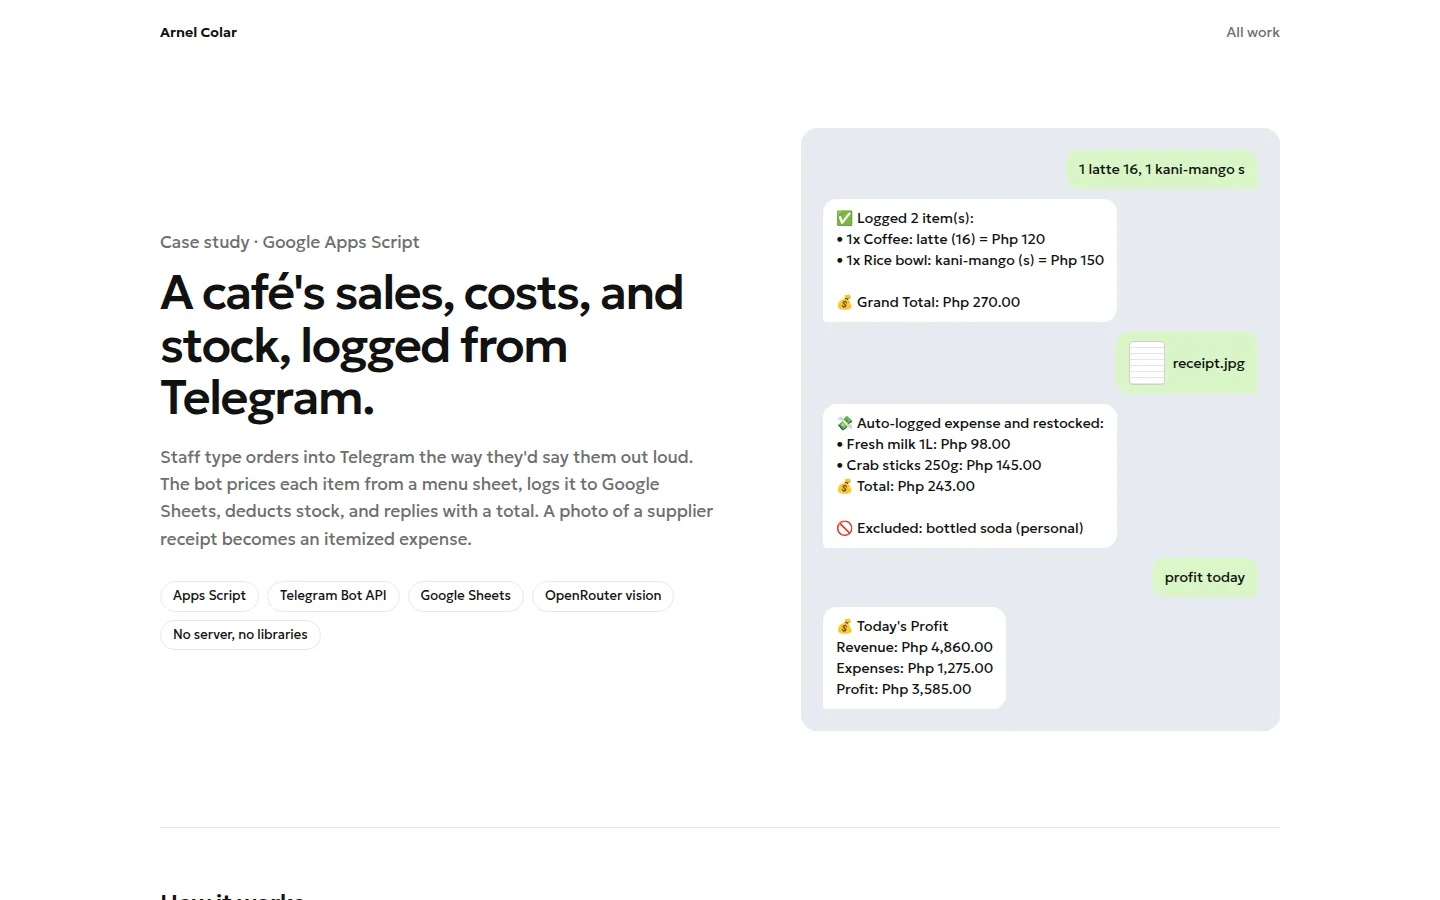
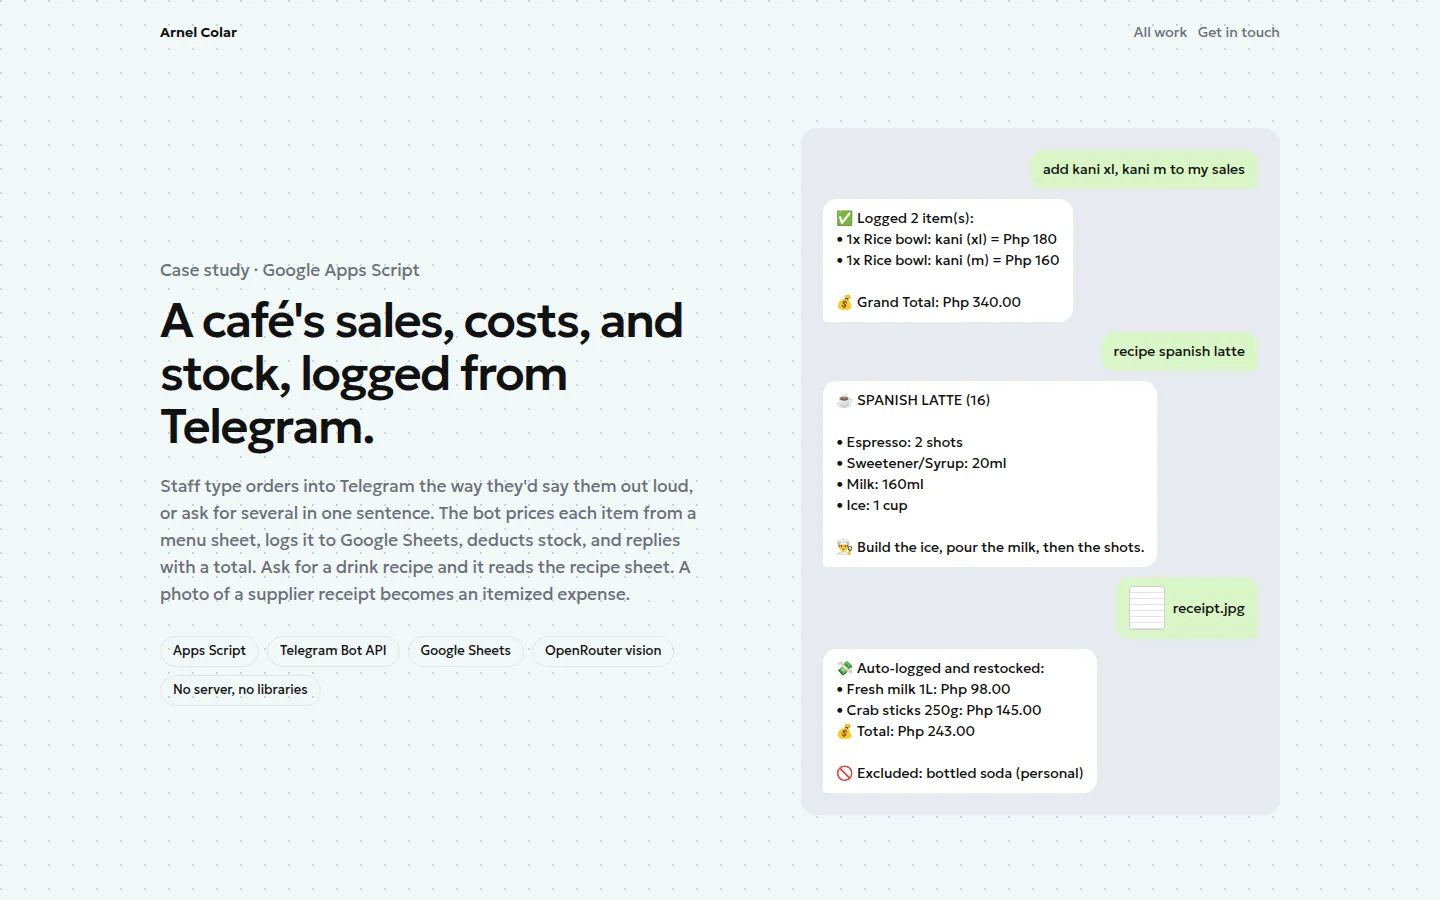
Bring the Corner Cup case study up to the current bot
The script has moved on: recipes from a sheet, menu add/list/delete, orders
written as a sentence, a webhook mode alongside polling, and one-line
corrections to a receipt the model read wrong. The case study now covers
those, shows a recipe and a sentence order in the example chat, and has a
fourth code excerpt for the menu-constrained parse.

diff --git a/work/cafe-bot/index.html b/work/cafe-bot/index.html
@@ -49,12 +49,12 @@ pre{background:var(--soft);border:1px solid var(--line);border-radius:10px;paddi
 .msg{animation:pop .45s cubic-bezier(.16,1,.3,1) both}
 .me{transform-origin:100% 100%}
 .bot{transform-origin:0 100%}
-.msg:nth-child(2){animation-delay:1s}
-.msg:nth-child(3){animation-delay:2s}
-.msg:nth-child(4){animation-delay:3s}
-.msg:nth-child(5){animation-delay:3.9s}
-.msg:nth-child(6){animation-delay:4.6s}
-.msg:first-child{animation-delay:.3s}
+.msg:nth-child(1){animation-delay:.1s}
+.msg:nth-child(2){animation-delay:.35s}
+.msg:nth-child(3){animation-delay:.8s}
+.msg:nth-child(4){animation-delay:1.05s}
+.msg:nth-child(5){animation-delay:1.5s}
+.msg:nth-child(6){animation-delay:1.75s}
 @keyframes pop{from{opacity:0;transform:translateY(8px) scale(.9)}}
 @media (max-width:760px){
   .hero,.steps,.cmds,.code{grid-template-columns:1fr}
@@ -62,8 +62,7 @@ pre{background:var(--soft);border:1px solid var(--line);border-radius:10px;paddi
   .code{gap:16px}
 }
 @media (prefers-reduced-motion:reduce){
-  .msg{animation-name:fade}
-  @keyframes fade{from{opacity:0}}
+  .msg{animation:none}
 }
 </style>
 </head>
@@ -76,7 +75,7 @@ pre{background:var(--soft);border:1px solid var(--line);border-radius:10px;paddi
     <div>
       <p class="label">Case study · Google Apps Script</p>
       <h1>A café's sales, costs, and stock, logged from Telegram.</h1>
-      <p>Staff type orders into Telegram the way they'd say them out loud. The bot prices each item from a menu sheet, logs it to Google Sheets, deducts stock, and replies with a total. A photo of a supplier receipt becomes an itemized expense.</p>
+      <p>Staff type orders into Telegram the way they'd say them out loud, or ask for several in one sentence. The bot prices each item from a menu sheet, logs it to Google Sheets, deducts stock, and replies with a total. Ask for a drink recipe and it reads the recipe sheet. A photo of a supplier receipt becomes an itemized expense.</p>
       <ul class="facts">
         <li>Apps Script</li>
         <li>Telegram Bot API</li>
@@ -86,24 +85,28 @@ pre{background:var(--soft);border:1px solid var(--line);border-radius:10px;paddi
       </ul>
     </div>
     <div class="chat" aria-label="Example conversation with the bot">
-      <div class="msg me">1 latte 16, 1 kani-mango s</div>
+      <div class="msg me">add kani xl, kani m to my sales</div>
       <div class="msg bot">✅ Logged 2 item(s):
-• 1x Coffee: latte (16) = Php 120
-• 1x Rice bowl: kani-mango (s) = Php 150
+• 1x Rice bowl: kani (xl) = Php 180
+• 1x Rice bowl: kani (m) = Php 160
 
-💰 Grand Total: Php 270.00</div>
+💰 Grand Total: Php 340.00</div>
+      <div class="msg me">recipe spanish latte</div>
+      <div class="msg bot">☕ SPANISH LATTE (16)
+
+• Espresso: 2 shots
+• Sweetener/Syrup: 20ml
+• Milk: 160ml
+• Ice: 1 cup
+
+👨🍳 Build the ice, pour the milk, then the shots.</div>
       <div class="msg me photo"><span aria-hidden="true"></span>receipt.jpg</div>
-      <div class="msg bot">💸 Auto-logged expense and restocked:
+      <div class="msg bot">💸 Auto-logged and restocked:
 • Fresh milk 1L: Php 98.00
 • Crab sticks 250g: Php 145.00
 💰 Total: Php 243.00
 
 🚫 Excluded: bottled soda (personal)</div>
-      <div class="msg me">profit today</div>
-      <div class="msg bot">💰 Today's Profit
-Revenue: Php 4,860.00
-Expenses: Php 1,275.00
-Profit: Php 3,585.00</div>
     </div>
   </section>
 
@@ -111,32 +114,35 @@ Profit: Php 3,585.00</div>
     <div class="head"><h2>How it works</h2><span class="num">01 / 03</span></div>
     <p class="lede">Everything runs in Google Apps Script, so there is no server to host or pay for.</p>
     <ol class="steps">
-      <li><b>Poll</b>A time trigger runs every minute and checks Telegram for new messages every ten seconds, saving its place in Script Properties so nothing is logged twice.</li>
-      <li><b>Parse</b>A message splits on commas and new lines. Each piece is read as quantity, item, and size, then priced from the Menu sheet.</li>
+      <li><b>Poll or push</b>A time trigger polls Telegram for fifty seconds at a time, then hands back to the trigger. The offset is saved in Script Properties so nothing is logged twice. A webhook mode does the same job without the wait.</li>
+      <li><b>Parse</b>A typed line splits into quantity, item, and size, then gets priced from the Menu sheet. Sentences that do not fit, like "add kani xl, kani m to my sales", go to the model, which may only answer with items already on the menu.</li>
       <li><b>Log</b>Sales, expenses, and inventory live in separate tabs. Each sale deducts ingredients and warns when something drops below its minimum.</li>
-      <li><b>Read receipts</b>Photos go to a vision model that returns JSON. Personal items are dropped, and shop supplies are logged and restocked.</li>
+      <li><b>Read receipts</b>Photos go to a vision model that returns JSON. Personal items are dropped, shop supplies are logged and restocked, and one follow-up sentence corrects a wrong call.</li>
     </ol>
   </section>
 
   <section class="block">
     <div class="head"><h2>Commands</h2><span class="num">02 / 03</span></div>
-    <p class="lede">Staff send these as plain messages.</p>
+    <p class="lede">Staff send these as plain messages. Anything else goes to the model as a question, and menu changes need no redeploy.</p>
     <ul class="cmds">
       <li><code>1 latte 16</code>log an order</li>
+      <li><code>add kani xl, kani m to my sales</code>several at once</li>
       <li><code>expense 588 beans</code>log a cost</li>
+      <li><code>recipe spanish latte</code>drink build</li>
       <li><code>stock</code>inventory levels</li>
       <li><code>today</code><code>week</code><code>month</code>sales</li>
       <li><code>best</code>top sellers today</li>
       <li><code>profit today</code>revenue minus costs</li>
       <li><code>expenses today</code>cost total</li>
+      <li><code>menu add</code><code>menu list</code><code>menu delete</code>edit the menu</li>
       <li><code>undo</code>remove the last sale</li>
-      <li><code>help</code>command list</li>
+      <li><code>undo expense</code>remove the last cost</li>
     </ul>
   </section>
 
   <section class="block">
     <div class="head"><h2>Selected code</h2><span class="num">03 / 03</span></div>
-    <p class="lede">Three excerpts. The full script stays private because a real café runs on it.</p>
+    <p class="lede">Four excerpts. The full script stays private because a real café runs on it.</p>
 
     <div class="code">
       <div>
@@ -167,6 +173,25 @@ var OPENROUTER_API_KEY = PROPS.getProperty("OPENROUTER_API_KEY");</code></pre>
     error: null
   };
 }</code></pre>
+    </div>
+
+    <div class="code">
+      <div>
+        <h3>Only menu items count</h3>
+        <p>A sentence with several drinks has no fixed shape, so the menu is handed to the model with the message and the model may only answer with names and sizes that already exist. Anything missing from the reply is dropped rather than guessed.</p>
+      </div>
+<pre><code>var prompt = "Parse the user's message into a JSON list of orders.\n" +
+  "Available menu items (name (size)): " + menuList.join(", ") + "\n" +
+  "Return ONLY valid JSON: " +
+  "{\"orders\":[{\"qty\":number,\"item\":\"menu item\",\"size\":\"size\"}]}\n" +
+  "Only include items that exist in the available menu list.";
+
+var payload = {
+  model: "minimax/minimax-m3.1-flash:free",
+  response_format: { type: "json_object" },
+  temperature: 0,
+  messages: [{ role: "user", content: prompt }]
+};</code></pre>
     </div>
 
     <div class="code">
